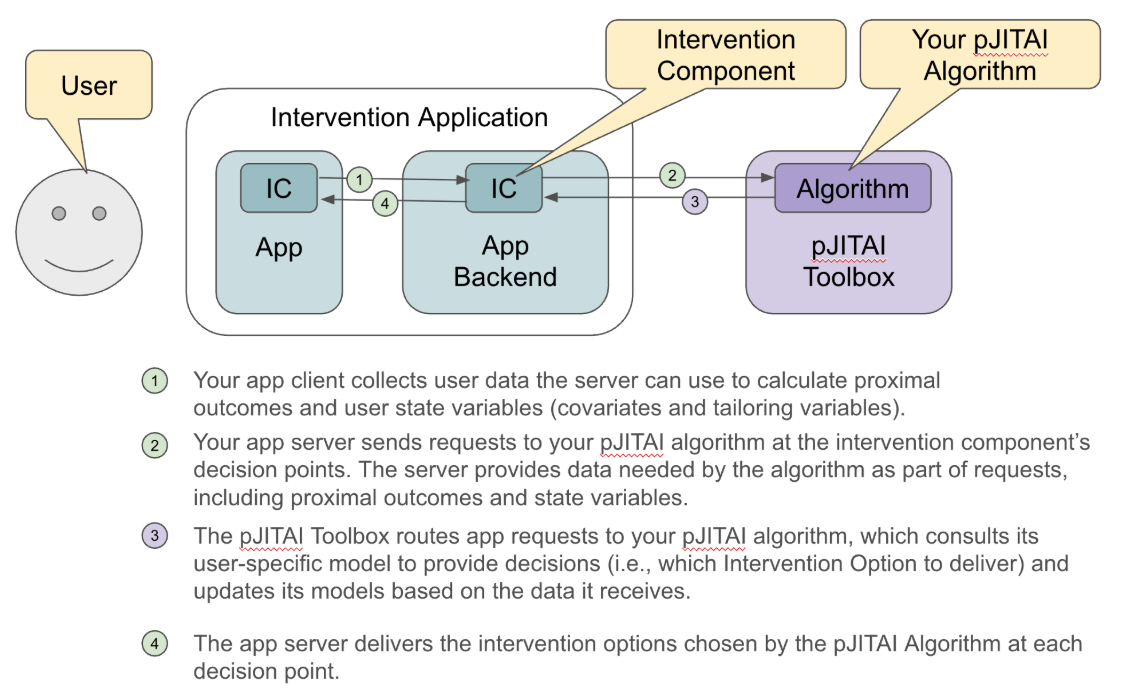
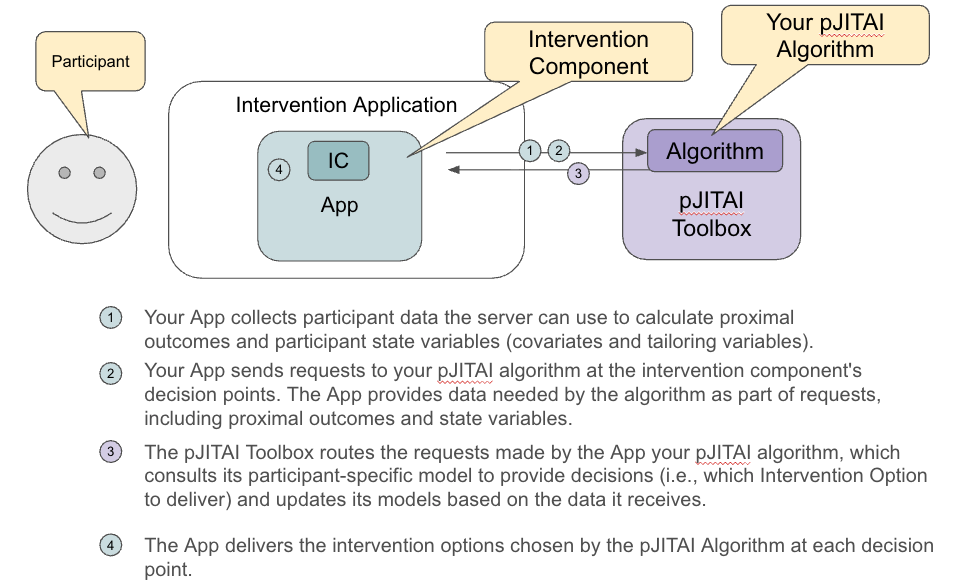
update welcome cards

diff --git a/apps/templates/design/config_summary/summary.html b/apps/templates/design/config_summary/summary.html
@@ -104,23 +104,18 @@ function get_prob(abc){
                                                                 style="background-color: #eeece9; color:#f85e5e;">the tailoring variable values in the box below</span>  is:
                                                             </h6>
                                                             <h1 class="text-center"><span id="probability_field">{{probability}}</span></h1>
-                                                            <!-- <div class="text-center" style="color:red;"><b>NOTE:</b><small> 53% is a demo value. This value be computed by an algorithm once backend algorithm is complete. </small></div> -->
                                                         </div>
 
 
                                                         <div style="margin-top: 2%;">
                                                             <h5>Tailoring variable values (play with the values!)</h5>
                                                             <div class="rightsidebluetextbox" style="margin-top:0px;">
-                                                                <!-- <h6><i class="fas fa-sliders-h"></i> Tailoring Variables Values </h6> -->
                                                                 <h6> Input different possible tailoring variable values to see how the intervention probability would 
                                                                     change with different tailoring-variable values.</h6>
                                                                 <hr>
                                                                 {% for i in range(tailoring_covs_num) %}
                                                                 <div class="form-group">
                                                                     <label class="form-control-label" for="personalization_method{{i}}">{{ tailoring_covs_names[i] }}
-                                                                        <!-- <span data-toggle='tooltip'
-                                                                            title='This value should satisfy your configuration of the value of the covariate'> <i
-                                                                                class=" align-text-top questionmark far fa-question-circle"></i></span> -->
                                                                     </label>
                                                                     <input type="text" onchange="get_prob(this)" 
                                                                             value="{{project_details.location_location}}"
@@ -151,69 +146,20 @@ function get_prob(abc){
                                                                 Your inputs here do not change the actual
                                                                 design of your pJITAI algorithm.
                                                             </li>
-    <!--                                                         <li><b>Note 3</b>: If the prior mean of the interaction
-                                                                coefficient of a tailoring variable is zero, then this
-                                                                probability will not change when you change the values of
-                                                                that tailoring variable. However, once data accrues and
-                                                                indicates that the interaction coefficient is nonzero, the
-                                                                probability of providing Intervention Option A will change
-                                                                according to the values of the tailoring variable.
-                                                            </li> -->
                                                         </ul>
                                                         </p>
+                                                        <div class="center-buttons">
+                                                            <a href="/model/settings/summary/{{project_uuid}}"
+                                                            class="btn btn-outline-primary" role="button">Back</a>
+                                                            <a style="margin-left: 3px" href="/configuration/final/{{project_uuid}}" class="btn btn-primary"
+                                                            role="button">Next</a>
+                                                        </div>
+                                                        <div class="form-group">
+                                                            Last save time: {{modified_on.strftime('%b %d %Y %I:%M %p')}} UTC
+                                                        </div>
                                                     </div>
-
                                                 </div>
                                             </div>
-                                        </div>
-                                    </div>
-                                </div>
-
-
-                                <div class="row">
-                                    <!-- [ tabs ] start -->
-                                    <div class="col-sm-12">
-
-                                        <ul class="nav nav-tabs" id="myTab" role="tablist">
-                                            <li class="nav-item">
-                                                <a class="nav-link active" id="home-tab" data-toggle="tab"
-                                                href="#home" role="tab" aria-controls="home" aria-selected="true">
-                                                    Explanation</a>
-                                            </li>
-
-                                        </ul>
-                                        <div class="tab-content" id="myTabContent">
-                                            <div class="tab-pane fade show active" id="home" role="tabpanel"
-                                                aria-labelledby="home-tab">
-                                                <p class="mb-0">In “Configuration Summary,” we show you the summary of your pJITAI algorithm configuration. Thompson Sampling adjusts the intervention probability based on the values of tailoring variables you have defined. If you have defined one or more tailoring variables, you can input values for each and see how the values impact the intervention delivery probability. From your configuration and inputs, we calculate the initial probability of delivering intervention option A. The individual-specific probability of delivering intervention option A will change (be personalized) as data accrues on the individual.
-                                                </p>
-                                            </div>
-
-                                        </div>
-                                    </div>
-
-
-                                    <!-- [ tabs ] end -->
-                                </div>
-                                <!-- [ Main Content ] end -->
-                                <!-- <div id="add_sensor">callingAjax</div> -->
-                                <div class="row">
-                                    <div class="col-sm-12">
-                                        <div class="card">
-                                            <div class="card-header">
-                                                <div class="form-group">
-                                                    <a href="/model/settings/summary/{{project_uuid}}"
-                                                    class="btn btn-outline-primary" role="button">Back</a>
-                                                    <a href="/configuration/final/{{project_uuid}}" class="btn btn-primary"
-                                                    role="button">Next</a>
-                                                    <!-- <a href="/configuration/final_survey/{{project_uuid}}" class="btn btn-primary"
-                                                    role="button">Next</a> -->
-                                                </div>
-                                                <div class="form-group">
-                                                    Last save time: {{modified_on.strftime('%b %d %Y %I:%M %p')}} UTC
-                                                </div>
-                                            </div>
-
                                         </div>
                                     </div>
                                 </div>

diff --git a/apps/templates/includes/sidebar_project.html b/apps/templates/includes/sidebar_project.html
@@ -131,14 +131,13 @@ function showControl() {
                         <li data-target="#myCarousel" data-slide-to="4"></li>
                         <li data-target="#myCarousel" data-slide-to="5"></li>
                         <li data-target="#myCarousel" data-slide-to="6"></li>
-                        <li data-target="#myCarousel" data-slide-to="7"></li>
                     </ol>
                     <div class="carousel-inner" role="listbox">
                         <div class="carousel-item active">
                             <h3>Why use the pJITAI toolbox?</h3>
                             <div class="row">
                                 <div class="col-9">
-                                    <p class="pull-left">This toolbox helps you design a reinforcement learning algorithm for a  personalizing Just-in-Time Adaptive Intervention (pJITAI) component.</p>
+                                    <p class="pull-left">This toolbox helps you design a reinforcement learning algorithm for a personalizing Just-in-Time Adaptive Intervention (pJITAI) component. </p>
                                 </div>
                                 <div class="col-3">
                                     <img src="{{ config.ASSETS_ROOT }}/images/pjitai/social-care_1.png"
@@ -163,37 +162,31 @@ function showControl() {
                         <div class="carousel-item">
                             <h3>What is a Decision Point?</h3>
                             <div class="col-9">
-                                <p>In a JITAI, a decision point is a point in time where an intervention component decides what type of intervention to deliver, or whether to deliver an intervention at all. For example, an intervention component that promotes walking might include a decision point in the morning before the person goes to work.</p>
+                                <p>In a JITAI, a decision point is a point in time where an intervention component decides what type of intervention to deliver, or whether to deliver an intervention at all. For example, an intervention component that promotes walking might include a decision point in the morning before the person goes to work. </p>
                             </div>
                         </div>
                         <div class="carousel-item">
                             <h3>What is Personalization (for JITAIs)?</h3>
                             <div class="col-9">
-                                <p>Whereas some JITAI decision rules may be designed with fixed probabilities or deterministic rules (e.g., IF the user did not meet their step goal yesterday THEN deliver a walking suggestion at 9am today), a personalizing JITAI component will employ an algorithm that seeks to learn under what conditions a particular intervention option is more effective for an individual, and to adjust the likelihood of sending that option to optimize overall effectiveness. For example, if a user is more likely to take walks after receiving a reminder on weekends than on weekdays, the algorithm may choose to send a message (rather than send nothing) more often on weekends than on weekdays.</p>
+                                <p>Whereas some JITAI decision rules may be designed with fixed probabilities or deterministic rules (e.g., IF the user did not meet their step goal yesterday THEN deliver a walking suggestion at 9am today), a personalizing JITAI component will employ an algorithm that seeks to learn under what conditions a particular intervention option is more effective for an individual, and to adjust the likelihood of sending that option to optimize overall effectiveness. For example, if a user is more likely to take walks after receiving a reminder on weekends than on weekdays, the algorithm may choose to send a message (rather than send nothing) more often on weekends than on weekdays. </p>
                             </div>
                         </div>
                         <div class="carousel-item">
                             <h3>How can I use the pJITAI Toolbox?</h3>
                             <div class="col-9">
-                                <p>The pJITAI Toolbox will walk you through the steps of configuring a personalizing reinforcement learning algorithm. Providing the information requested by the Toolbox will ensure that the algorithm is set up properly for the intervention component you plan to personalize, and that the algorithm is initialized with starting parameters that will allow it to perform reasonably well at the beginning and learn each user’s responsiveness quickly. The current version of the Toolbox assumes that you have prior data from a Micro-randomized Trial (a common way to generate initialization data for a personalizing algorithm), but if you don’t have such data you can come up with estimates from related prior work or simply take your best guess!</p>
+                                <p>The pJITAI Toolbox will walk you through the steps of configuring a personalizing reinforcement learning algorithm. Providing the information requested by the Toolbox will ensure that the algorithm is set up properly for the intervention component you plan to personalize, and that the algorithm is initialized with starting parameters that will allow it to perform reasonably well at the beginning and learn each user's responsiveness quickly. The current version of the Toolbox assumes that you have prior data from a Micro-randomized Trial (a common way to generate initialization data for a personalizing algorithm). If certain fields are missing, feel free to refer to the general instructions “What should I enter?” and discussions at the bottom of each screen that will help you decide what to enter.</p>
                             </div>
                         </div>
                         <div class="carousel-item">
                             <h3>How do I start? </h3>
                             <div class="col-9">
-                                <p>Simply click “New Project” from the options on the left. On each of the screens that follow, in addition to general instructions and explanations, you will find examples drawn from the HeartSteps project. A great way to get familiar with the pJITAI toolbox is to create your own “HeartSteps Activity Suggestions” project and walk through the Toolbox entering values from the running example. After you finish that, come back here and start a new project to personalize your own Intervention Component!</p>
+                                <p>Please make sure to have a previously run MRT study with you before you get started. Then simply click “New Project” from the options on the left. As previously explained, refer to the general instructions and discussions that will help you decide what to enter and get familiar with the toolbox.</p>
                             </div>
                         </div>
                         <div class="carousel-item">
                             <h3>pJITAI Toolbox Structure</h3>
                             <img src="{{ config.ASSETS_ROOT }}/images/pjitai/pJITAI-table.png">
                             <p>Notes: Elements in green are not provided by the pJITAI Toolbox. Work with your software development team to create these elements and integrate them with the pJITAI Toolbox. Use the pJITAI Toolbox interface to create and configure a pJITAI algorithm that is specific to one intervention component in your intervention app.</p>
-                        </div>
-                        <div class="carousel-item">
-                            <h3>How is the pJITAI Toolbox connected to the App Client?</h3>
-                            <p>All data and requests between the pJITAI Toolbox and your app client (e.g., mobile app) are made via API calls. 
-                                At the end of creating a project, you will be directed to a page that explains how to connect to your app client using API.
-                                You can find more details about the API in the Intervention Application Guide documentation (link at #TODO).</p>
                         </div>
                     </div>
 

diff --git a/apps/templates/design/projects/final_page.html b/apps/templates/design/projects/final_page.html
@@ -35,14 +35,6 @@
                     <h5>3. Token: {{token}}</h5>
                     <p>This should be included as a header for your HTTP requests. It will be used for authentication.</p>
                     <pre><code class="language-python">{'TOKEN': {{token}}}</code></pre>
-                  <!-- </div>
-                </div>
-              </div>
-            </div>
-            <div class="row">
-              <div class="col-sm-12">
-                <div class="card">
-                  <div class="card-header"> -->
                   <br />
                     <h4 style="margin-top: 20px;"><b>HTTP Requests</b></h4>
                     <div class="decision">
@@ -139,17 +131,9 @@
     }
   }</code></pre>
                     </div>
-                  <!-- </div>
-                </div>
-              </div>
-            </div>
-            <div class="row">
-              <div class="col-sm-12">
-                <div class="card">
-                  <div class="card-header"> -->
                     <br />
                     <br />
-                    <h4><b>Try it out with pJITAI-Client!</b></h4>
+                    <!-- <h4><b>Try it out with pJITAI-Client!</b></h4>
                     <p>Using our pJITAI-Client, you can test-train your model.</p>
                     <h5>1. Set Parameters</h5>
                     <h6>Number of Days to Create Decision Calls</h6>
@@ -165,11 +149,7 @@
                           class="form-control" required>
                       <h5>2. Download</h5>
                       <p>Click on the below button to download the randomly created JSON file which will be used in pJITAI-Client.</p>
-                      <button id="download-btn" type="submit" class="btn btn-primary">Download</button>
-                  <!-- </div>
-                </div>
-              </div>
-            </div> -->
+                      <button id="download-btn" type="submit" class="btn btn-primary">Download</button> -->
 
             <!-- script for JSON download start -->
             <script>
@@ -411,7 +391,7 @@
             <!-- script end -->
       </div>
     </div>
-    <div class="row">
+    <!-- <div class="row">
       <div class="col-sm-12">
         <div class="card">
           <div class="card-header">
@@ -424,10 +404,9 @@
           </div>
         </div>
       </div>
-    </div>
+    </div> -->
   </div>
 </div>
-  <!-- Add 'includes/comments.html' if needed -->
 <!-- [ Main Content ] end -->
 
 {% endblock content %}

diff --git a/apps/templates/design/projects/projects.html b/apps/templates/design/projects/projects.html
@@ -85,11 +85,11 @@
                                             <p class="card-text">Intervention:
                                                 {{proj.get("intervention_component_name")}}</p>
                                             <a class="small">{{proj.get("project_description")[:70]}}</a>
-                                            {% if proj.get("project_status")==1 %}
+                                            <!-- {% if proj.get("project_status")==1 %}
                                             <p><a href="/api/projects/{{proj.get('project_uuid')}}" class="btn btn-info"><i class="fas fa-code-branch"></i> Get
                                                 your API</a></p>
 
-                                            {% endif %}
+                                            {% endif %} -->
                                         </div>
                                     </div>
                                 </div>

diff --git a/apps/templates/design/projects/end_userstudy.html b/apps/templates/design/projects/end_userstudy.html
@@ -32,20 +32,6 @@
               </div>
             </div>
           </div>
-    <!-- <div class="row">
-      <div class="col-sm-12">
-        <div class="card">
-          <div class="card-header">
-            <h4><b>Final Survey</b></h4>
-            <p>Before leaving, please take time to complete this survey about pJITAI Toolbox!</p>
-            <div class="form-group">
-                <a href="/configuration/final_survey/{{project_uuid}}"
-                class="btn btn-warning" role="button">Survey</a>
-            </div>
-          </div>
-        </div>
-      </div>
-    </div> -->
   </div>
 </div>
 {% endblock content %}

diff --git a/apps/home/routes.py b/apps/home/routes.py
@@ -42,10 +42,10 @@ from apps.algorithms.models import Projects
 from apps.home import blueprint
 from apps.home.helper import get_project_details, update_general_settings, update_intervention_settings, \
     update_model_settings, update_covariates_settings, add_menu, get_project_menu_pages, get_all_users, \
-    update_general_settings_team_members, delete_general_settings_team_members, get_survey_details, add_project_logs
+    update_general_settings_team_members, delete_general_settings_team_members, add_project_logs
 from apps.home.summary_page_probability import compute_probability
 from apps.api.models import Comment
-from apps.api.sql_helper import get_comments, get_all_comments, save_survey, update_survey
+from apps.api.sql_helper import get_comments, get_all_comments
 
 @blueprint.route('/comment/delete/<comment_id>', methods=['GET'])
 @login_required
@@ -243,12 +243,10 @@ def mark_project_finalized(project_uuid):
     project_details, project_details_obj = get_project_details(project_uuid=project_uuid, user_id=user_id)
     team_members = project_details.get('general_settings', {}).get('team_members', {})
     displayname = current_user.displayname
-    final_survey_link = 'https://docs.google.com/forms/d/e/1FAIpQLScS9CuvxoQlWsb41tMo4cvLd7fIG053h--yoE9Wu1f5VKtl_A/viewform?usp=header'
     for t in team_members: # Send for everyone intluding MP
         msg = Message("[pJITAI] Project Finalized",
                     recipients=[t["email"]])
-        email_msg = f"The Main Participant '{displayname}' finalized the project '{project_details.get('general_settings').get('project_name')}'." + \
-                    f"\nPlease open this link to complete the final survey: {final_survey_link}" 
+        email_msg = f"The Main Participant '{displayname}' finalized the project '{project_details.get('general_settings').get('project_name')}'."
         msg.body = email_msg
         mail.send(msg)    
 
@@ -722,10 +720,6 @@ def configuration_summary(config_type, project_uuid):
 
     if config_type == "summary":
         page_name = "configuration_summary"
-    elif config_type == "final_survey":
-        survey_details, survey_details_obj = get_survey_details(project_uuid=project_uuid, user_id=user_id)
-        survey_details = survey_details.get("survey_questions", {})
-        page_name = "configuration_final_survey"
     else:
         page_name = "configuration_final"
 
@@ -756,8 +750,7 @@ def configuration_summary(config_type, project_uuid):
         for cov in covs:
             if covs.get(cov).get('tailoring_variable') == 'yes':
                 cov_name = covs.get(cov).get('covariate_name')
-                cov_desc = 'XXX'
-                cov_desc = f"Type: {covs.get(cov).get('covariate_type')}, Min: {covs.get(cov).get('covariate_min_val')}, Max: {covs.get(cov).get('covariate_max_val')}, Notes: {covs.get(cov).get('notes')}"
+                cov_desc = f"Min: {covs.get(cov).get('covariate_min_val')}, Max: {covs.get(cov).get('covariate_max_val')}, Notes: {covs.get(cov).get('notes')}"
                 tailoring_covs_names.append(cov_name)
                 tailoring_covs_description.append(cov_desc)
         
@@ -778,19 +771,6 @@ def configuration_summary(config_type, project_uuid):
                                tailoring_covs_description = tailoring_covs_description,
                                all_menus=all_menus, menu_number=16, modified_on=modified_on, project_uuid=project_uuid, 
                                probability=prob_str, comments_for_that_page=comments_for_that_page, all_comments=all_comments, user=user, page_name=page_name, full_url=full_url)
-    elif config_type == "final_survey":
-        return render_template("design/config_summary/final_survey.html", segment="static_pages_survey", settings=settings,
-                               all_menus=all_menus, menu_number=17, modified_on=modified_on, project_uuid=project_uuid, survey=survey_details,
-                               comments_for_that_page=comments_for_that_page, all_comments=all_comments, user=user, page_name=page_name, full_url=full_url)
-    elif config_type == "add_edit_survey":
-        survey_details, survey_details_obj = get_survey_details(project_uuid=project_uuid, user_id=user_id)
-        if request.method == 'POST':
-            survey = request.form.to_dict()
-            if not survey_details_obj:
-                save_survey(project_uuid=project_uuid, survey=survey, user_id=user_id)
-            else:
-                update_survey(data=survey, survey_details_obj=survey_details_obj)
-        return redirect("/projects/in_progress")
     elif config_type == "final":
         return render_template("design/config_summary/final.html", segment="configuration_final", settings=settings,
                                all_menus=all_menus, menu_number=18, modified_on=modified_on, project_uuid=project_uuid,
